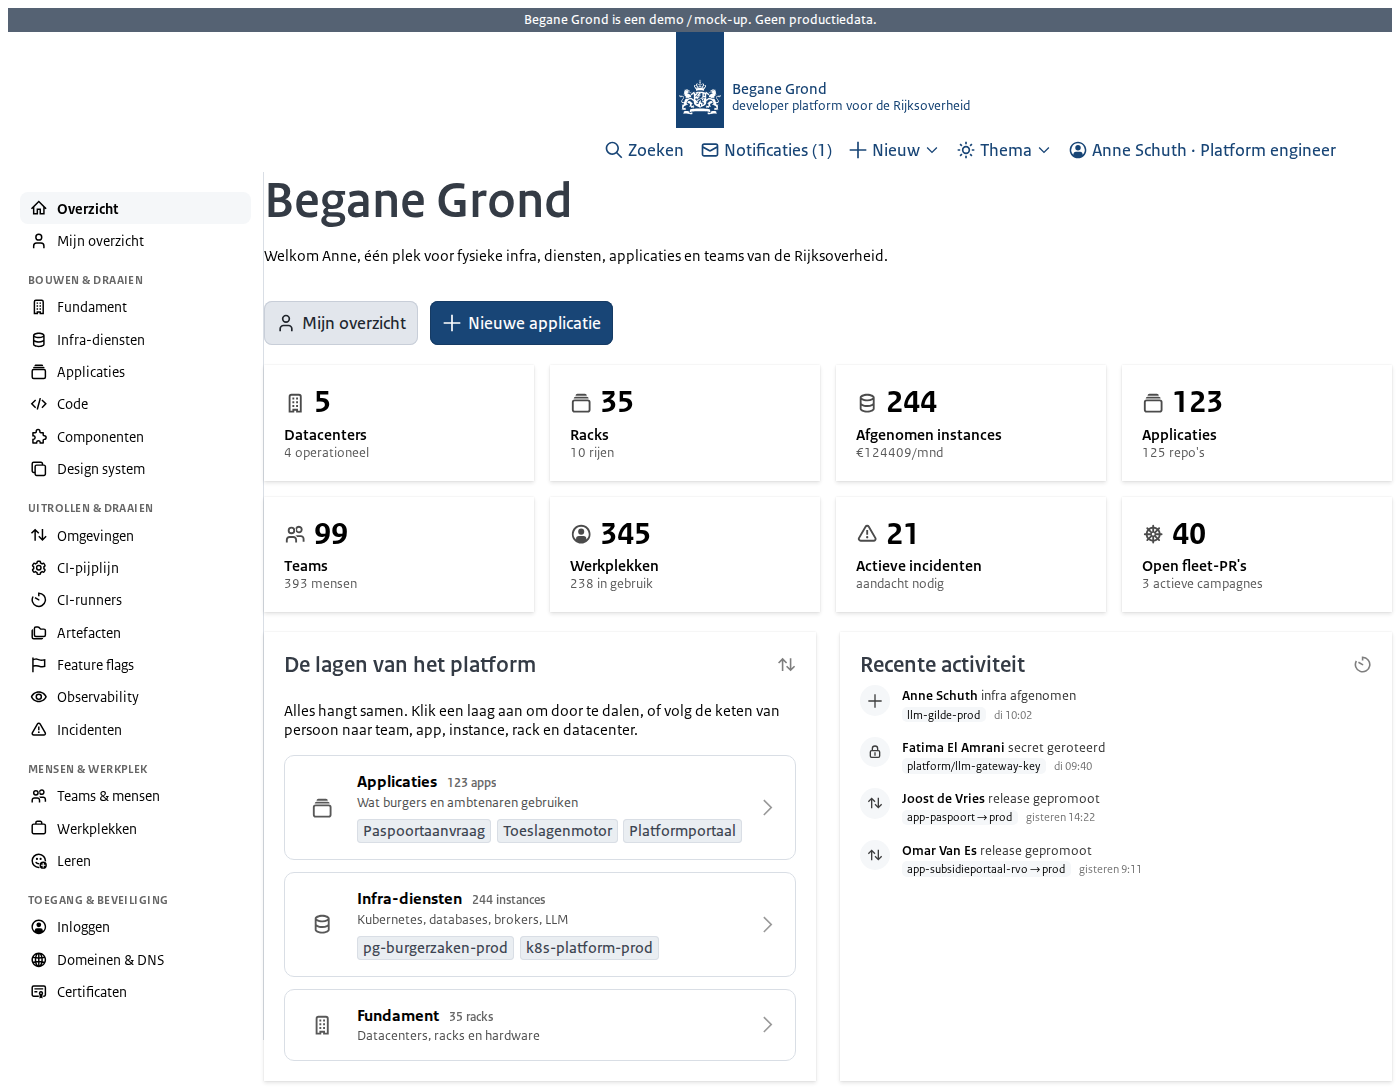
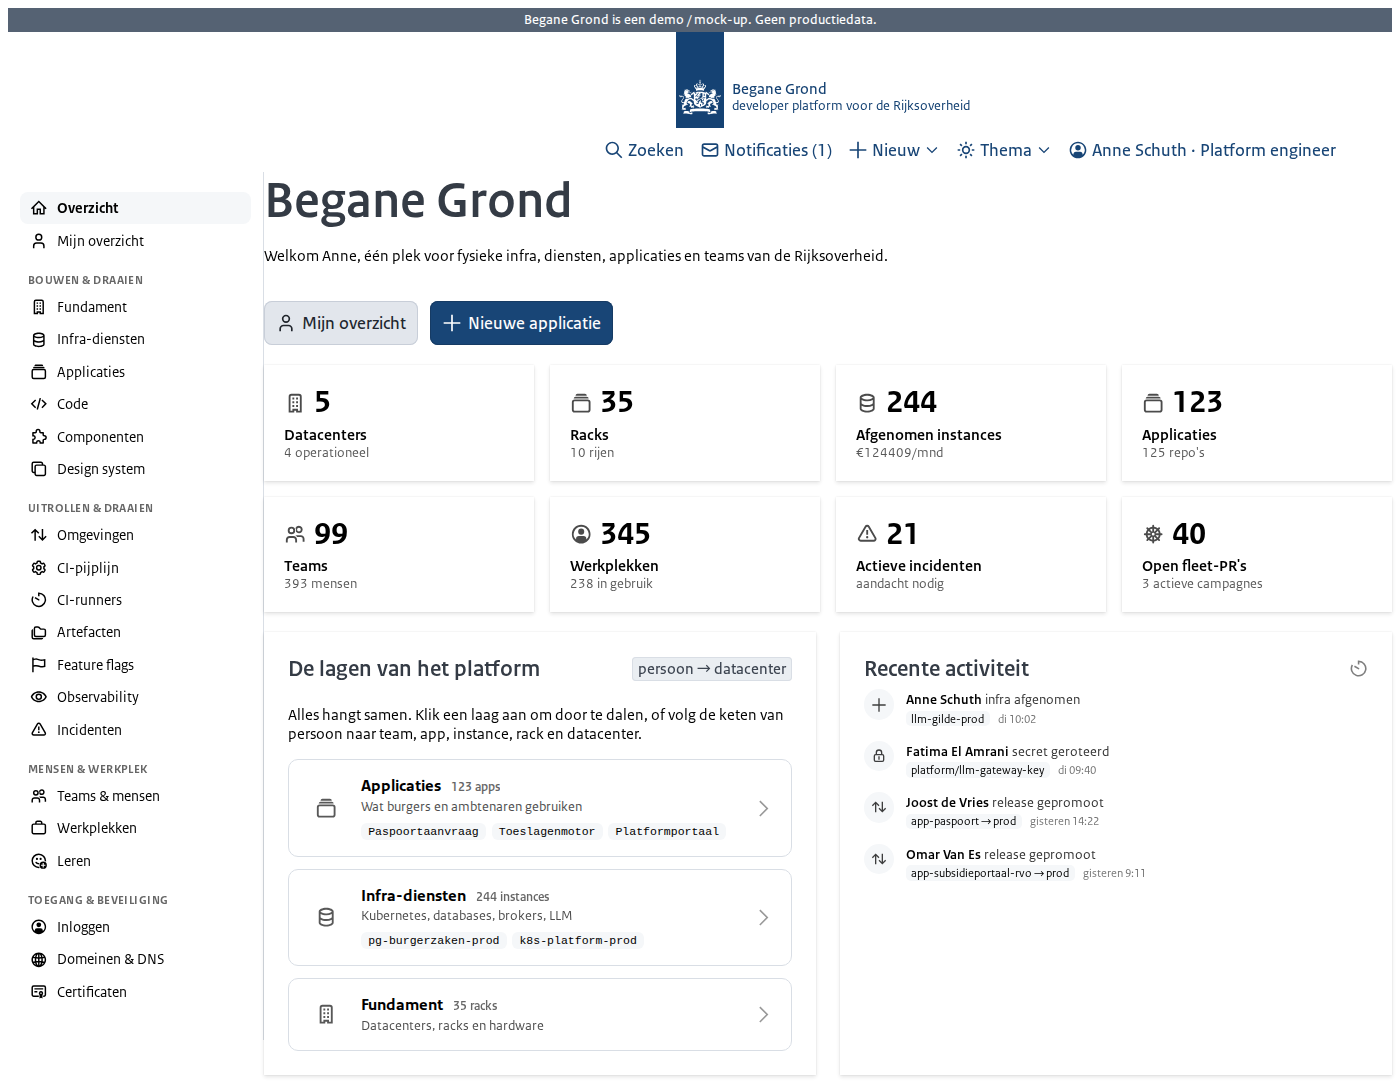
Refine 'De lagen' card: persoon→datacenter tag, mono chips, roomier padding
- c-section-head now places its right-side content (a tag or icon) opposite the
  title (space-between), so the 'persoon → datacenter' nldd-tag sits top-right of
  the layers card like the original.
- New BGNLDD c-chip -> small monospace pill (.bg-layer-chip), matching the site's
  resource chips (Paspoortaanvraag, pg-burgerzaken-prod, …) instead of full nldd-tags.
- Section cards use padding=lg (24) to match the reference spacing.

2142 python + 144 core tests pass.

diff --git a/tests/visual/fixtures/bg-overzicht.html b/tests/visual/fixtures/bg-overzicht.html
@@ -70,17 +70,17 @@
     </c-auto-grid>
 
     <c-columns columns="1" lg="2" gap="1.5rem">
-      <c-card outline>
-        <c-section-head title="De lagen van het platform" icon="arrow-up-arrow-down"/>
+      <c-card outline padding="lg">
+        <c-section-head title="De lagen van het platform"><c-tag type="default">persoon → datacenter</c-tag></c-section-head>
         <c-p>Alles hangt samen. Klik een laag aan om door te dalen, of volg de keten van persoon naar team, app, instance, rack en datacenter.</c-p>
         <c-stack gap="0.75rem">
-        <c-layer icon="rectangle-stack" title="Applicaties" count="123 apps" sub="Wat burgers en ambtenaren gebruiken" href="#"><c-tag type="default">Paspoortaanvraag</c-tag><c-tag type="default">Toeslagenmotor</c-tag><c-tag type="default">Platformportaal</c-tag></c-layer>
-        <c-layer icon="cylinder-split" title="Infra-diensten" count="244 instances" sub="Kubernetes, databases, brokers, LLM" href="#"><c-tag type="default">pg-burgerzaken-prod</c-tag><c-tag type="default">k8s-platform-prod</c-tag></c-layer>
+        <c-layer icon="rectangle-stack" title="Applicaties" count="123 apps" sub="Wat burgers en ambtenaren gebruiken" href="#"><c-chip>Paspoortaanvraag</c-chip><c-chip>Toeslagenmotor</c-chip><c-chip>Platformportaal</c-chip></c-layer>
+        <c-layer icon="cylinder-split" title="Infra-diensten" count="244 instances" sub="Kubernetes, databases, brokers, LLM" href="#"><c-chip>pg-burgerzaken-prod</c-chip><c-chip>k8s-platform-prod</c-chip></c-layer>
         <c-layer icon="apartment-building" title="Fundament" count="35 racks" sub="Datacenters, racks en hardware" href="#"></c-layer>
         </c-stack>
       </c-card>
 
-      <c-card outline>
+      <c-card outline padding="lg">
         <c-section-head title="Recente activiteit" icon="timer"/>
         <c-activity>
         <c-activity-item icon="plus" actor="Anne Schuth" action="infra afgenomen" res="llm-gilde-prod" at="di 10:02"/>

diff --git a/packages/lotc-bgnldd/src/lotc_bgnldd/static/lotc/bgnldd/bg-components.css b/packages/lotc-bgnldd/src/lotc_bgnldd/static/lotc/bgnldd/bg-components.css
@@ -80,6 +80,14 @@
 .bg-layer-count { opacity: 0.6; font-size: 0.8rem; font-weight: 600; }
 .bg-layer-sub { opacity: 0.7; margin-top: 0.1rem; font-size: 0.85rem; display: block; }
 .bg-layer-chips { flex-wrap: wrap; gap: 0.35rem; margin-top: 0.5rem; display: flex; }
+.bg-layer-chip {
+    font-size: 0.72rem;
+    font-family: ui-monospace, SFMono-Regular, Menlo, monospace;
+    background: var(--semantics-surfaces-tinted-background-color);
+    white-space: nowrap;
+    border-radius: 6px;
+    padding: 0.12rem 0.45rem;
+}
 .bg-layer-go { opacity: 0.4; flex: 0 0 auto; width: 1.2rem; height: 1.2rem; }
 
 /* ── section-head ────────────────────────────────────────────────────────── */
@@ -91,6 +99,7 @@
     display: flex;
 }
 .bg-section-head-main { align-items: center; gap: 0.6rem; display: flex; }
+.bg-section-head-aside { align-items: center; gap: 0.5rem; display: flex; }
 /* Title is rendered by <nldd-title> (its shadow controls typography); just
    strip the slotted heading's default margin so it sits in the flex row. */
 .bg-section-title { margin: 0; }

diff --git a/themes/bgnldd/definitions/index.ts b/themes/bgnldd/definitions/index.ts
@@ -152,6 +152,15 @@ export const menuBarItem = defineComponent({
   },
 });
 
+// ── chip: a small monospace resource chip (used inside a layer row) ─────────
+export const chip = defineComponent({
+  name: "chip",
+  description: "Small monospace chip/pill for a resource name (e.g. inside a layer)",
+  category: "data-display",
+  props: { [PROPS.CLASS]: { description: "Additional CSS classes" } },
+  content: { allowed: true },
+});
+
 /** All BGNLDD component definitions, in registry order. */
 export const BGNLDD_COMPONENTS = [
   metric,
@@ -165,4 +174,5 @@ export const BGNLDD_COMPONENTS = [
   shortcut,
   menuBar,
   menuBarItem,
+  chip,
 ];

diff --git a/tests/visual/gen_bg_overzicht.py b/tests/visual/gen_bg_overzicht.py
@@ -102,7 +102,7 @@ def metrics() -> str:
 def layers() -> str:
     rows: list[str] = []
     for icon, title, count, sub, chips in LAYERS:
-        chip_tags = "".join(f'<c-tag type="default">{c}</c-tag>' for c in chips)
+        chip_tags = "".join(f'<c-chip>{c}</c-chip>' for c in chips)
         rows.append(
             f'        <c-layer icon="{icon}" title="{title}" count="{count}" sub="{sub}" href="#">'
             f'{chip_tags}</c-layer>'
@@ -160,15 +160,15 @@ def build() -> str:
     </c-auto-grid>
 
     <c-columns columns="1" lg="2" gap="1.5rem">
-      <c-card outline>
-        <c-section-head title="De lagen van het platform" icon="arrow-up-arrow-down"/>
+      <c-card outline padding="lg">
+        <c-section-head title="De lagen van het platform"><c-tag type="default">persoon → datacenter</c-tag></c-section-head>
         <c-p>Alles hangt samen. Klik een laag aan om door te dalen, of volg de keten van persoon naar team, app, instance, rack en datacenter.</c-p>
         <c-stack gap="0.75rem">
 {layers()}
         </c-stack>
       </c-card>
 
-      <c-card outline>
+      <c-card outline padding="lg">
         <c-section-head title="Recente activiteit" icon="timer"/>
         <c-activity>
 {activity()}
